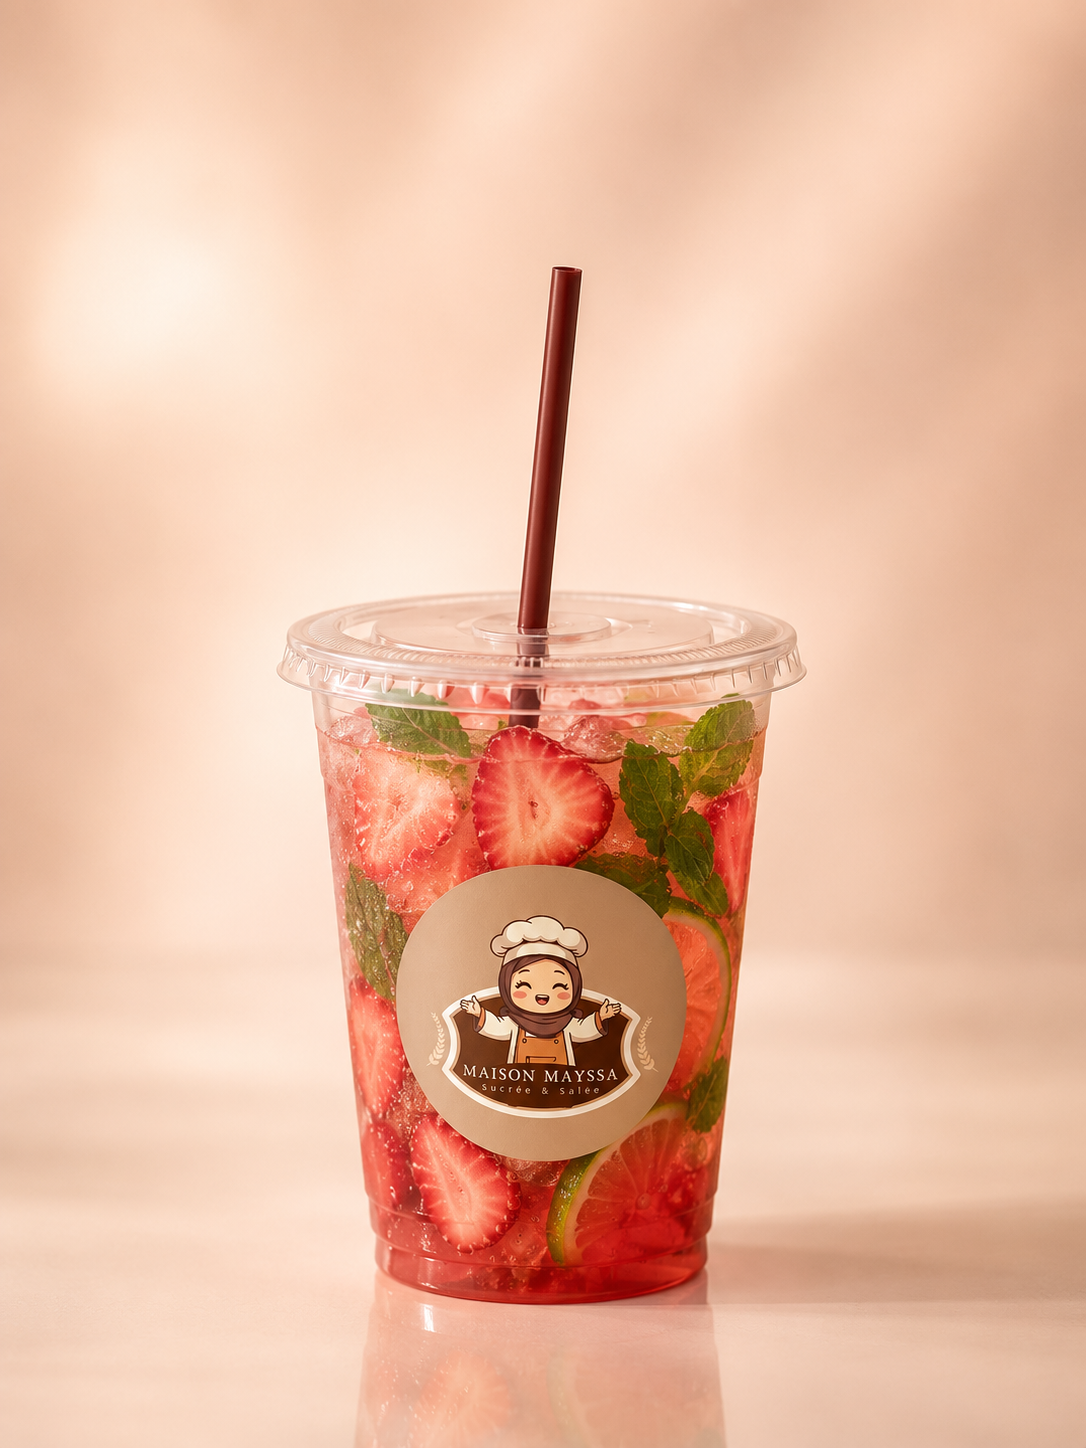
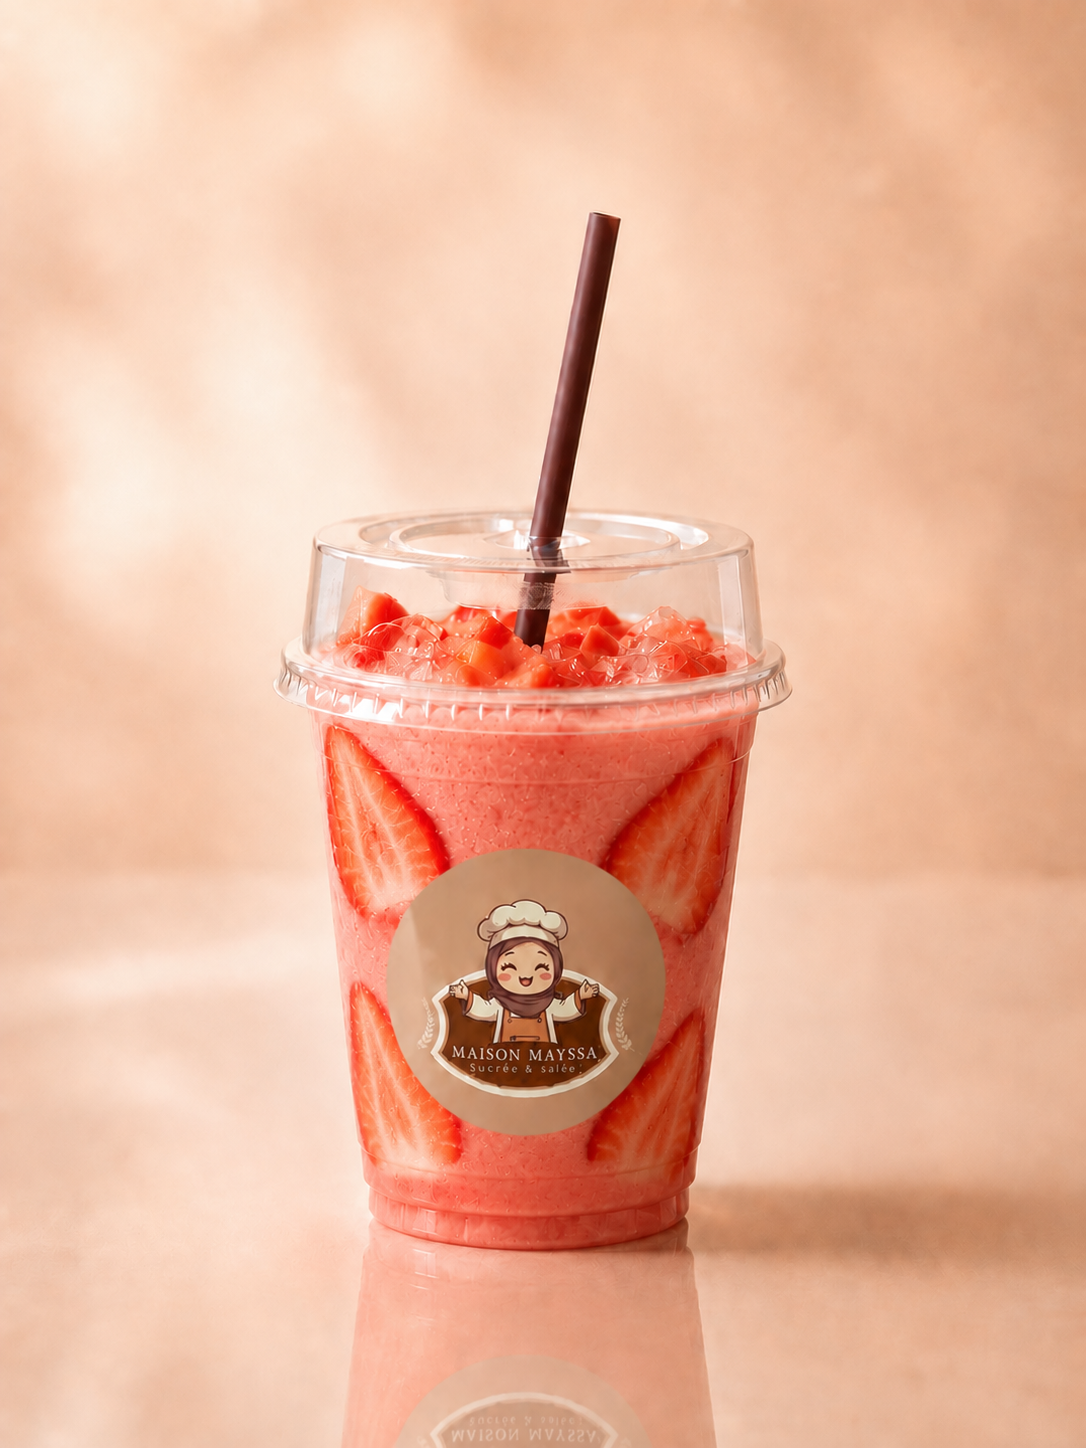
feat(catalog): gamme complète limonades brésiliennes et mojitos.
Ajoute 4 saveurs de limonada suíça, 6 mojitos sans alcool à 4,90 €, fiches produit, allergènes et photos associées.

diff --git a/src/lib/productDetails.ts b/src/lib/productDetails.ts
@@ -223,6 +223,22 @@ export const PRODUCT_DETAILS: Record<string, ProductDetailContent> = {
     ],
     conservation: 'À conserver au réfrigérateur et déguster dans les 48 h suivant le retrait.',
   },
+  'limonade-bresilienne-classique': {
+    tagline: 'La limonada suíça brésilienne, dans sa version originale',
+    paragraphs: [
+      'La limonade brésilienne — la limonada suíça — n\'a rien à voir avec une simple citronnade : on utilise des citrons verts entiers, lavés et coupés en quartiers avec leur peau, mixés brièvement avec de l\'eau très froide puis filtrés pour retirer pulpe et pépins.',
+      'Le jus filtré retourne au blender avec du lait concentré sucré, un peu de sucre et une généreuse portion de glaçons : c\'est ce mélange qui donne la texture crémeuse et légèrement mousseuse si caractéristique, sans fruit ajouté.',
+      'Préparée à la commande et servie immédiatement bien fraîche — comme au Brésil, où cette boisson se déguste sur-le-champ pour garder toute sa fraîcheur.',
+    ],
+    composition: [
+      'Citrons verts entiers (avec peau)',
+      'Eau très froide',
+      'Lait concentré sucré',
+      'Sucre',
+      'Glaçons',
+    ],
+    conservation: 'À déguster aussitôt, bien frais — la limonade brésilienne ne se conserve pas (le citron devient amer en reposant).',
+  },
   'limonade-bresilienne-mangue': {
     tagline: 'La limonada suíça brésilienne, revisitée à la mangue',
     paragraphs: [
@@ -256,6 +272,117 @@ export const PRODUCT_DETAILS: Record<string, ProductDetailContent> = {
       'Glaçons',
     ],
     conservation: 'À déguster aussitôt, bien frais — la limonade brésilienne ne se conserve pas (le citron devient amer en reposant).',
+  },
+  'limonade-bresilienne-framboise': {
+    tagline: 'La limonada suíça brésilienne, revisitée à la framboise',
+    paragraphs: [
+      'La limonade brésilienne — la limonada suíça — n\'a rien à voir avec une simple citronnade : on utilise des citrons verts entiers, lavés et coupés en quartiers avec leur peau, mixés brièvement avec de l\'eau très froide puis filtrés pour retirer pulpe et pépins.',
+      'Le jus filtré retourne au blender avec du lait concentré sucré, un peu de sucre et une généreuse portion de glaçons : c\'est ce mélange qui donne la texture crémeuse et légèrement mousseuse si caractéristique. Notre version framboise y ajoute des framboises fraîches pour une note acidulée et fruitée.',
+      'Préparée à la commande et servie immédiatement bien fraîche — comme au Brésil, où cette boisson se déguste sur-le-champ pour garder toute sa fraîcheur.',
+    ],
+    composition: [
+      'Citrons verts entiers (avec peau)',
+      'Eau très froide',
+      'Lait concentré sucré',
+      'Framboises fraîches',
+      'Sucre',
+      'Glaçons',
+    ],
+    conservation: 'À déguster aussitôt, bien frais — la limonade brésilienne ne se conserve pas (le citron devient amer en reposant).',
+  },
+  'limonade-bresilienne-peche': {
+    tagline: 'La limonada suíça brésilienne, revisitée à la pêche',
+    paragraphs: [
+      'La limonade brésilienne — la limonada suíça — n\'a rien à voir avec une simple citronnade : on utilise des citrons verts entiers, lavés et coupés en quartiers avec leur peau, mixés brièvement avec de l\'eau très froide puis filtrés pour retirer pulpe et pépins.',
+      'Le jus filtré retourne au blender avec du lait concentré sucré, un peu de sucre et une généreuse portion de glaçons : c\'est ce mélange qui donne la texture crémeuse et légèrement mousseuse si caractéristique. Notre version pêche y ajoute de la pêche fraîche pour une douceur estivale et parfumée.',
+      'Préparée à la commande et servie immédiatement bien fraîche — comme au Brésil, où cette boisson se déguste sur-le-champ pour garder toute sa fraîcheur.',
+    ],
+    composition: [
+      'Citrons verts entiers (avec peau)',
+      'Eau très froide',
+      'Lait concentré sucré',
+      'Pêche fraîche',
+      'Sucre',
+      'Glaçons',
+    ],
+    conservation: 'À déguster aussitôt, bien frais — la limonade brésilienne ne se conserve pas (le citron devient amer en reposant).',
+  },
+  'limonade-bresilienne-pasteque': {
+    tagline: 'La limonada suíça brésilienne, revisitée à la pastèque',
+    paragraphs: [
+      'La limonade brésilienne — la limonada suíça — n\'a rien à voir avec une simple citronnade : on utilise des citrons verts entiers, lavés et coupés en quartiers avec leur peau, mixés brièvement avec de l\'eau très froide puis filtrés pour retirer pulpe et pépins.',
+      'Le jus filtré retourne au blender avec du lait concentré sucré, un peu de sucre et une généreuse portion de glaçons : c\'est ce mélange qui donne la texture crémeuse et légèrement mousseuse si caractéristique. Notre version pastèque y ajoute de la pastèque fraîche pour une fraîcheur juteuse et légère.',
+      'Préparée à la commande et servie immédiatement bien fraîche — comme au Brésil, où cette boisson se déguste sur-le-champ pour garder toute sa fraîcheur.',
+    ],
+    composition: [
+      'Citrons verts entiers (avec peau)',
+      'Eau très froide',
+      'Lait concentré sucré',
+      'Pastèque fraîche',
+      'Sucre',
+      'Glaçons',
+    ],
+    conservation: 'À déguster aussitôt, bien frais — la limonade brésilienne ne se conserve pas (le citron devient amer en reposant).',
+  },
+  'mojito-classique': {
+    tagline: 'Le grand classique — 100 % sans alcool',
+    paragraphs: [
+      'Notre mojito classique reprend l\'esprit du cocktail cubain sans alcool : feuilles de menthe fraîche, jus de citron vert, un filet de sirop de sucre et de l\'eau pétillante, le tout sur une base de glaçons.',
+      'La menthe est légèrement froissée pour libérer son parfum sans l\'amertumer, le citron vert apporte l\'acidité, et les bulles de l\'eau gazeuse finissent l\'ensemble en légèreté.',
+      'Servi en cup transparente, prêt à boire — rafraîchissant à tout moment de la journée.',
+    ],
+    composition: ['Menthe fraîche', 'Citron vert', 'Sirop de sucre', 'Eau pétillante', 'Glaçons'],
+    conservation: 'À déguster aussitôt, bien frais.',
+  },
+  'mojito-passion': {
+    tagline: 'Tropical et acidulé — sans alcool',
+    paragraphs: [
+      'Version fruitée de notre mojito : pulpe de fruit de la passion, menthe fraîche, citron vert et glaçons, complétés par de l\'eau pétillante pour une boisson légère et parfumée.',
+      'Les graines de passion apportent une texture et une acidité caractéristiques, équilibrées par la fraîcheur de la menthe.',
+      'Une escapade tropicale en cup, sans alcool.',
+    ],
+    composition: ['Fruit de la passion', 'Menthe fraîche', 'Citron vert', 'Eau pétillante', 'Glaçons'],
+    conservation: 'À déguster aussitôt, bien frais.',
+  },
+  'mojito-melon': {
+    tagline: 'Douceur estivale — sans alcool',
+    paragraphs: [
+      'Morceaux de melon frais, menthe, citron vert et glaçons, allongés à l\'eau pétillante : un mojito gourmand et ultra rafraîchissant pour les beaux jours.',
+      'Le melon apporte sa douceur juteuse, la menthe et le citron vert structurent l\'ensemble sans le alourdir.',
+      'Préparé à la commande, servi bien frais en cup.',
+    ],
+    composition: ['Melon frais', 'Menthe fraîche', 'Citron vert', 'Eau pétillante', 'Glaçons'],
+    conservation: 'À déguster aussitôt, bien frais.',
+  },
+  'mojito-mangue': {
+    tagline: 'Mangue fraîche et menthe — sans alcool',
+    paragraphs: [
+      'Cubes de mangue mûre, menthe fraîche, citron vert et glaçons, complétés par de l\'eau pétillante : un mojito tropical généreux en fruit.',
+      'La mangue apporte douceur et exotisme, la menthe et le citron vert gardent l\'équilibre frais du cocktail original.',
+      'Servi en cup transparente, prêt à déguster sur-le-champ.',
+    ],
+    composition: ['Mangue fraîche', 'Menthe fraîche', 'Citron vert', 'Eau pétillante', 'Glaçons'],
+    conservation: 'À déguster aussitôt, bien frais.',
+  },
+  'mojito-framboise': {
+    tagline: 'Fruité et acidulé — sans alcool',
+    paragraphs: [
+      'Framboises fraîches, menthe, citron vert et glaçons, allongés à l\'eau pétillante : un mojito rouge vif, léger et parfumé.',
+      'Les framboises apportent leur acidité délicate, la menthe et le citron vert complètent le profil sans alcool.',
+      'Préparé à la commande pour une fraîcheur maximale.',
+    ],
+    composition: ['Framboises fraîches', 'Menthe fraîche', 'Citron vert', 'Eau pétillante', 'Glaçons'],
+    conservation: 'À déguster aussitôt, bien frais.',
+  },
+  'mojito-fraise': {
+    tagline: 'Gourmand et rafraîchissant — sans alcool',
+    paragraphs: [
+      'Fraises fraîches, menthe, citron vert et glaçons, complétés par de l\'eau pétillante : un mojito gourmand aux notes rouges et fruitées.',
+      'Les fraises apportent douceur et parfum, la menthe et le citron vert gardent l\'équilibre typique du mojito.',
+      'Servi en cup, sans alcool, à déguster bien frais.',
+    ],
+    composition: ['Fraises fraîches', 'Menthe fraîche', 'Citron vert', 'Eau pétillante', 'Glaçons'],
+    conservation: 'À déguster aussitôt, bien frais.',
   },
 }
 

diff --git a/src/lib/productAllergens.ts b/src/lib/productAllergens.ts
@@ -14,6 +14,7 @@ const CHOCOLAT = ['Lait', 'Soja', 'Fruits à coque', 'Gluten (traces)']
 const SALE = ['Gluten', 'Lait', 'Œufs', 'Moutarde', 'Soja']
 const FRUITS_FRAIS = ['Fruits à coque (traces)', 'Gluten (traces)', 'Lait (traces)']
 const JUS = ['Lait', 'Fruits à coque (traces)']
+const MOJITO = ['Fruits à coque (traces)']
 
 /** Allergènes par produit (prioritaire sur la catégorie). */
 export const PRODUCT_ALLERGENS: Record<string, string[]> = {
@@ -45,8 +46,18 @@ export const PRODUCT_ALLERGENS: Record<string, string[]> = {
   'canette-cake-speculoos-framboise': PATISSERIE,
   'canette-cake-mangue-passion': TROMPE_FRUIT,
   // Jus
+  'limonade-bresilienne-classique': JUS,
   'limonade-bresilienne-mangue': JUS,
   'limonade-bresilienne-fraise': JUS,
+  'limonade-bresilienne-framboise': JUS,
+  'limonade-bresilienne-peche': JUS,
+  'limonade-bresilienne-pasteque': JUS,
+  'mojito-classique': MOJITO,
+  'mojito-passion': MOJITO,
+  'mojito-melon': MOJITO,
+  'mojito-mangue': MOJITO,
+  'mojito-framboise': MOJITO,
+  'mojito-fraise': MOJITO,
   // Salé
   'new-york-roll-poulet-curry': SALE,
   'new-york-roll-steak': SALE,

diff --git a/src/constants/catalog.ts b/src/constants/catalog.ts
@@ -172,8 +172,18 @@ export const CATALOG_PRODUCTS: Product[] = [
   comingSoon('canette-cake-mangue-passion', 'Canette Cake - Mangue Passion', 'Canette Cake', 'Mangue et fruit de la passion, fraîcheur tropicale et douceur crémeuse.', 4, '/nouvelle-img/canette-cake-mangue-passion.png'),
 
   // ─── Nos jus frais — bientôt disponible ──────────────────────────────────
+  comingSoon('limonade-bresilienne-classique', 'Limonade Brésilienne - Classique', 'Nos jus frais', 'Limonada suíça : citrons verts mixés entiers, eau froide, lait concentré sucré et glaçons — crémeuse et servie aussitôt.', 5, '/nouvelle-img/limonade-bresilienne-classique.PNG'),
   comingSoon('limonade-bresilienne-mangue', 'Limonade Brésilienne - Mangue', 'Nos jus frais', 'Limonada suíça : citrons verts mixés entiers, eau froide, lait concentré sucré, mangue fraîche et glaçons — crémeuse et servie aussitôt.', 5, '/nouvelle-img/limonade-bresilienne-mangue.png'),
   comingSoon('limonade-bresilienne-fraise', 'Limonade Brésilienne - Fraise', 'Nos jus frais', 'Limonada suíça : citrons verts mixés entiers, eau froide, lait concentré sucré, fraises fraîches et glaçons — crémeuse et servie aussitôt.', 5, '/nouvelle-img/limonade-bresilienne-fraise.png'),
+  comingSoon('limonade-bresilienne-framboise', 'Limonade Brésilienne - Framboise', 'Nos jus frais', 'Limonada suíça : citrons verts mixés entiers, eau froide, lait concentré sucré, framboises fraîches et glaçons — crémeuse et servie aussitôt.', 5, '/nouvelle-img/limonade-bresilienne-framboise.PNG'),
+  comingSoon('limonade-bresilienne-peche', 'Limonade Brésilienne - Pêche', 'Nos jus frais', 'Limonada suíça : citrons verts mixés entiers, eau froide, lait concentré sucré, pêche fraîche et glaçons — crémeuse et servie aussitôt.', 5, '/nouvelle-img/limonade-bresilienne-peche.PNG'),
+  comingSoon('limonade-bresilienne-pasteque', 'Limonade Brésilienne - Pastèque', 'Nos jus frais', 'Limonada suíça : citrons verts mixés entiers, eau froide, lait concentré sucré, pastèque fraîche et glaçons — crémeuse et servie aussitôt.', 5, '/nouvelle-img/limonade-bresilienne-pasteque.PNG'),
+  comingSoon('mojito-classique', 'Mojito Classique', 'Nos jus frais', 'Menthe fraîche, citron vert, sirop de sucre et eau pétillante — sans alcool, servi bien frais.', 4.9, '/nouvelle-img/cocktail-mojito-classique.PNG'),
+  comingSoon('mojito-passion', 'Mojito Passion', 'Nos jus frais', 'Fruit de la passion, menthe fraîche, citron vert et glaçons — sans alcool, notes tropicales.', 4.9, '/nouvelle-img/cocktail-mojito-passion.PNG'),
+  comingSoon('mojito-melon', 'Mojito Melon', 'Nos jus frais', 'Morceaux de melon frais, menthe, citron vert et glaçons — sans alcool, douceur estivale.', 4.9, '/nouvelle-img/cocktail-mojito-melon.PNG'),
+  comingSoon('mojito-mangue', 'Mojito Mangue', 'Nos jus frais', 'Mangue fraîche, menthe, citron vert et glaçons — sans alcool, fraîcheur tropicale.', 4.9, '/nouvelle-img/cocktail-mojito-mangue.PNG'),
+  comingSoon('mojito-framboise', 'Mojito Framboise', 'Nos jus frais', 'Framboises fraîches, menthe, citron vert et glaçons — sans alcool, acidulé et fruité.', 4.9, '/nouvelle-img/cocktail-mojito-framboise.PNG'),
+  comingSoon('mojito-fraise', 'Mojito Fraise', 'Nos jus frais', 'Fraises fraîches, menthe, citron vert et glaçons — sans alcool, gourmand et rafraîchissant.', 4.9, '/nouvelle-img/cocktail-mojito-fraise.PNG'),
 
   // ─── Le salé — bientôt disponible ────────────────────────────────────────
   comingSoon('new-york-roll-poulet-curry', 'New York Roll - Poulet saveur italienne', 'Le salé', 'Roll moelleux garni de poulet aux saveurs italiennes.', 5, '/nouvelle-img/NyRolls-poulet-curry.png'),

diff --git a/src/lib/categories.ts b/src/lib/categories.ts
@@ -34,7 +34,7 @@ export const CATEGORY_SHOWCASE: CategoryShowcase[] = [
   {
     id: 'Nos jus frais',
     title: 'Nos jus frais',
-    subtitle: 'Limonades artisanales',
+    subtitle: 'Limonades & mojitos sans alcool',
     image: '/Fraise.webp',
     anchor: '#la-carte',
   },
@@ -77,8 +77,12 @@ export const SIGNATURE_PRODUCT_IDS = [
 ] as const
 
 export const COMING_SOON_FEATURED_IDS = [
+  'limonade-bresilienne-classique',
   'limonade-bresilienne-mangue',
   'limonade-bresilienne-fraise',
+  'limonade-bresilienne-pasteque',
+  'mojito-classique',
+  'mojito-mangue',
   'new-york-roll-poulet-curry',
   'new-york-roll-steak',
   'panuozzo-maison-mayssa',